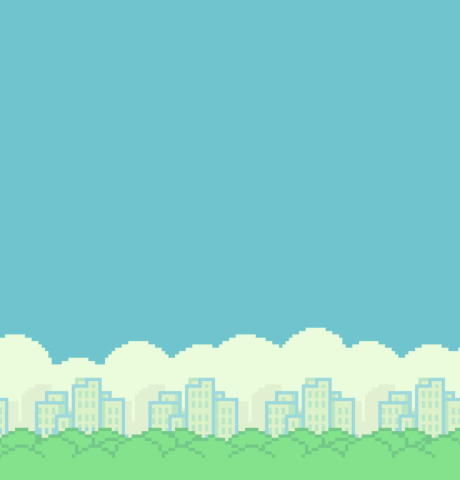
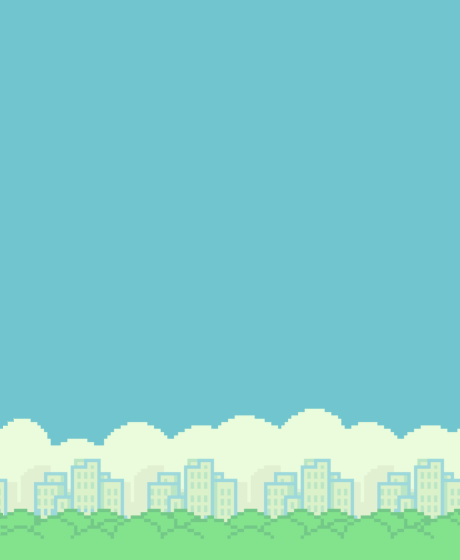
add moving background

Changed region(s): [[0.0, 0.6562, 1.0, 0.9688]]

diff --git a/javascript/background.js b/javascript/background.js
@@ -7,5 +7,16 @@ class Background {
     draw() {
         // city background
         image(game.backgroundImage, this.imgx, 0, width, height);
+        image(game.backgroundImage, this.imgx +width, 0, width, height);
+
+        // moving city background
+        this.imgx -= 0.2;
+
+        if ( this.imgx <=  -width) {
+            this.imgx = 0;
+        }
+
+        // moving floor
+        image(game.floor, this.floorx, height - 12, width, 12, )
     }
 }

diff --git a/index.html b/index.html
@@ -4,12 +4,13 @@
     <meta charset="UTF-8">
     <meta http-equiv="X-UA-Compatible" content="IE=edge">
     <meta name="viewport" content="width=device-width, initial-scale=1.0">
-    <title>Flappy</title>
+    <title>Flappy Bird</title>
     <link rel="stylesheet" href="css/style.css">
     <script src="https://cdn.jsdelivr.net/npm/p5@1.3.1/lib/p5.js"></script>
 </head>
 <body>
 <h2>Flappy Bird</h2>
+<h2>Score: <span>0</span></h2>
 
 
     
